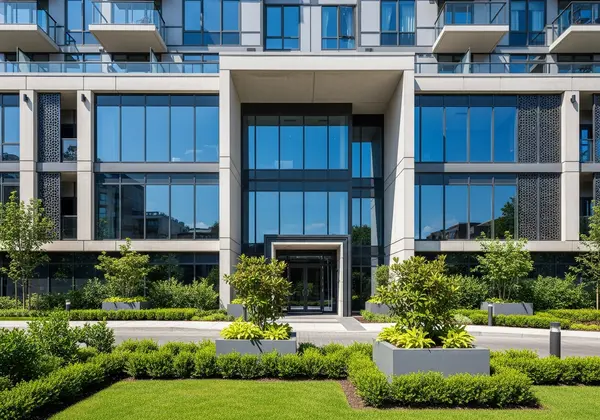
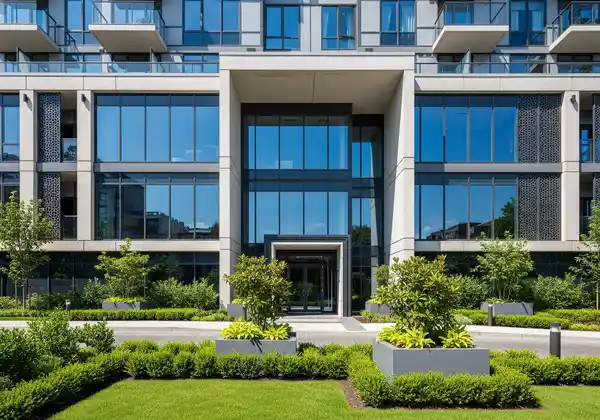
Fix LCP discovery, viewport scaling, and further compress images
- First domain card image now uses fetchpriority="high" and eager
  loading instead of lazy, fixing the LCP request discovery issue
- Removed maximum-scale=1 from viewport meta to allow user scaling
  (accessibility best practice)
- Further compressed all domain card images (apartment: 51KB->32KB,
  others also reduced) with lower WebP quality for thumbnails

https://claude.ai/code/session_016wpiNn2DiJ492gDG5yx8Ry

diff --git a/client/src/components/DomainCard.tsx b/client/src/components/DomainCard.tsx
@@ -3,9 +3,10 @@ import { Card, CardContent, CardHeader } from "@/components/ui/card";
 
 interface DomainCardProps {
   domain: Domain;
+  priority?: boolean;
 }
 
-export default function DomainCard({ domain }: DomainCardProps) {
+export default function DomainCard({ domain, priority }: DomainCardProps) {
   return (
     <Card className="overflow-hidden" data-testid={`card-domain-${domain.name}`}>
       {domain.imageUrl && (
@@ -14,8 +15,9 @@ export default function DomainCard({ domain }: DomainCardProps) {
             src={domain.imageUrl}
             alt={domain.name}
             className="object-cover w-full h-full"
-            loading="lazy"
-            decoding="async"
+            loading={priority ? "eager" : "lazy"}
+            decoding={priority ? "sync" : "async"}
+            fetchPriority={priority ? "high" : undefined}
             width="600"
             height="400"
           />

diff --git a/client/src/pages/Home.tsx b/client/src/pages/Home.tsx
@@ -54,7 +54,7 @@ export default function Home() {
           <div className="grid grid-cols-1 md:grid-cols-2 lg:grid-cols-4 gap-5">
             {premiumDomains.map((domain, index) => (
               <div key={domain.name}>
-                <DomainCard domain={domain} />
+                <DomainCard domain={domain} priority={index === 0} />
               </div>
             ))}
           </div>

diff --git a/client/index.html b/client/index.html
@@ -2,7 +2,7 @@
 <html lang="en">
   <head>
     <meta charset="UTF-8" />
-    <meta name="viewport" content="width=device-width, initial-scale=1.0, maximum-scale=1" />
+    <meta name="viewport" content="width=device-width, initial-scale=1.0" />
 
     <!-- Favicons -->
     <link rel="icon" type="image/svg+xml" href="/favicon.svg" />
